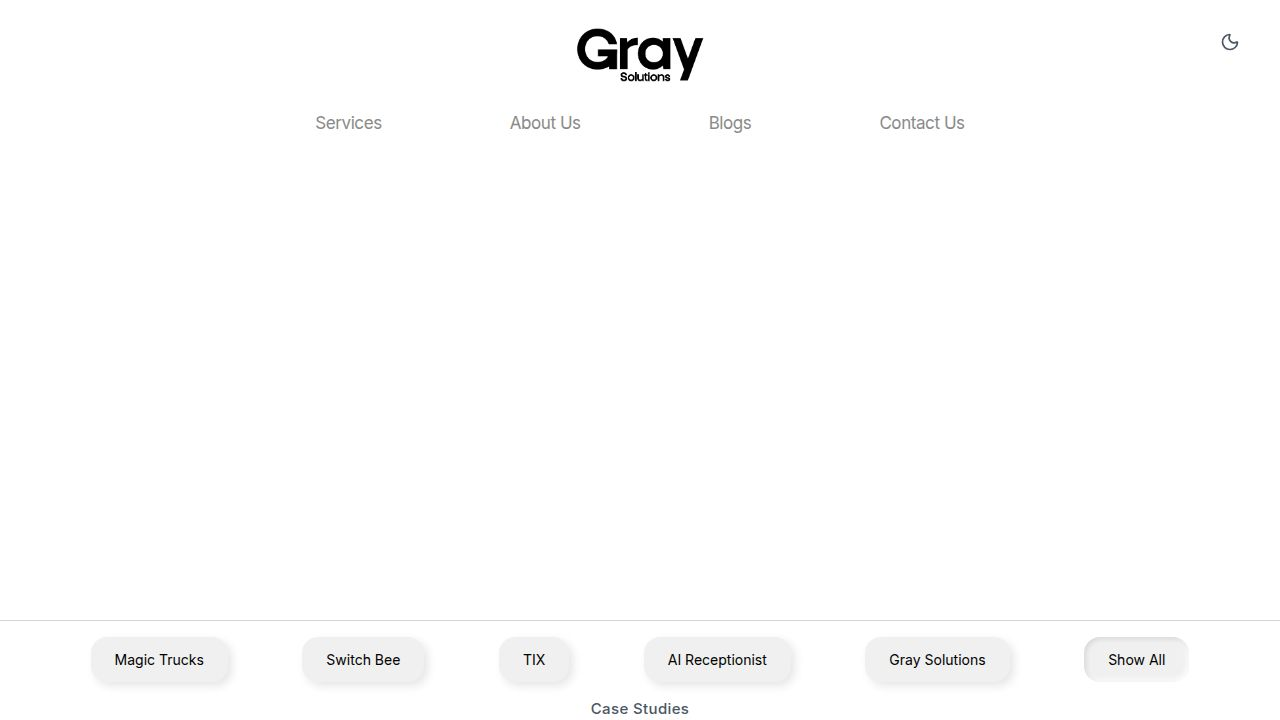
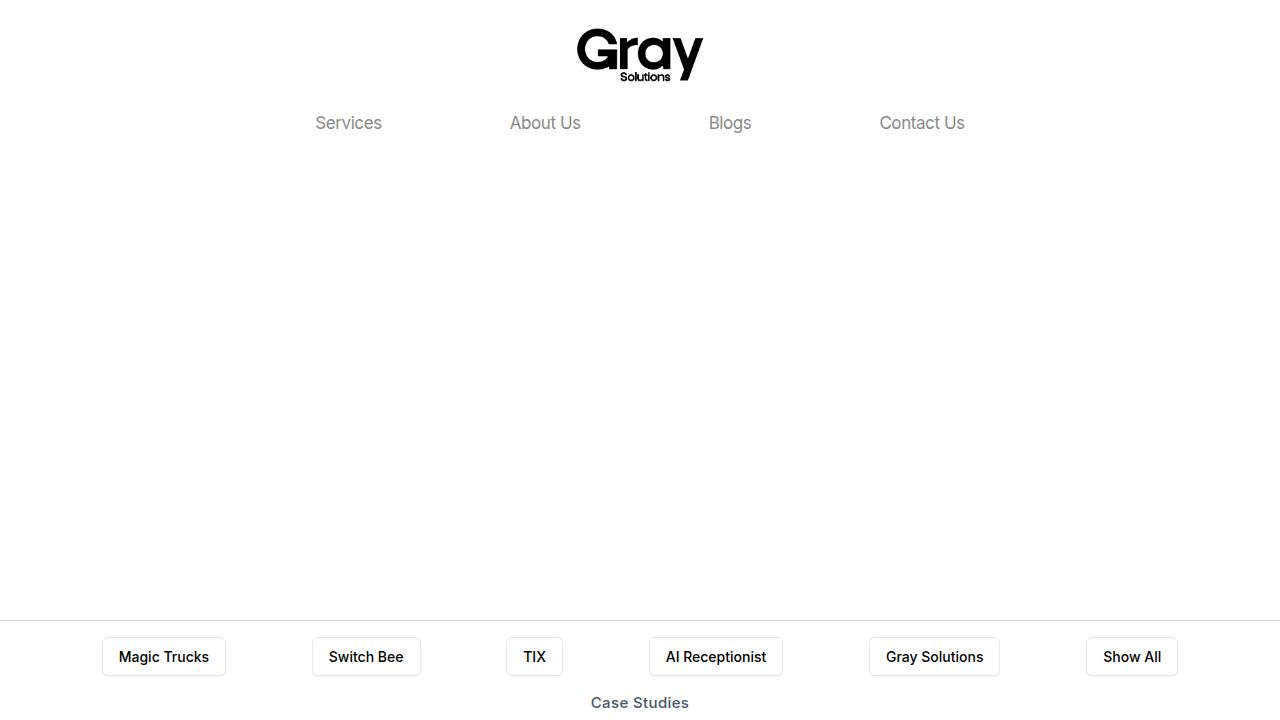
Add new services page with detailed sections and navigation
Create a new page at `/services` with header, intro, brief, roadmap, capabilities, and testimonials sections, updating the main router to include this new route.

Replit-Commit-Author: Agent
Replit-Commit-Session-Id: e4d137b4-b5bb-4d6d-9c60-4b28d3e74818
Replit-Commit-Checkpoint-Type: full_checkpoint
Replit-Commit-Event-Id: 69ccce55-bb29-4d4e-b5b5-b4ff505ae3aa
Replit-Commit-Screenshot-Url: https://storage.googleapis.com/screenshot-production-us-central1/b7c0589e-bc8f-486d-88cc-c194b68995c9/e4d137b4-b5bb-4d6d-9c60-4b28d3e74818/4cEMdiU

diff --git a/client/src/pages/services.tsx b/client/src/pages/services.tsx
@@ -1,0 +1,164 @@
+import React from "react";
+import { Link, useLocation } from "wouter";
+import logoImage from "@assets/Group_69_(1)_1764854226570.png";
+
+export default function Services() {
+  const [location] = useLocation();
+
+  const navItems = [
+    { label: "Services", href: "/services" },
+    { label: "About Us", href: "/about" },
+    { label: "Blogs", href: "/blogs" },
+    { label: "Contact Us", href: "/contact" },
+  ];
+
+  const briefItems = [
+    { id: 1, title: "Innovation" },
+    { id: 2, title: "Strategy" },
+    { id: 3, title: "Design" },
+    { id: 4, title: "Development" },
+    { id: 5, title: "Growth" },
+  ];
+
+  const capabilities = [
+    {
+      heading: "Design",
+      items: ["UI/UX Design", "Brand Identity", "Motion Graphics"],
+    },
+    {
+      heading: "Development",
+      items: ["Web Applications", "Mobile Apps", "Cloud Solutions"],
+    },
+    {
+      heading: "Strategy",
+      items: ["Digital Strategy", "Product Roadmap", "Market Research"],
+    },
+  ];
+
+  const testimonials = [
+    {
+      id: 1,
+      position: "left",
+    },
+    {
+      id: 2,
+      position: "right",
+    },
+    {
+      id: 3,
+      position: "left",
+    },
+  ];
+
+  return (
+    <div className="min-h-screen w-full bg-white font-sans text-brand-text-dark">
+      {/* Header */}
+      <header className="h-[160px] flex-none flex flex-col bg-white relative z-10">
+        <div className="flex-1 flex flex-col justify-center items-center pt-6 pb-6">
+          <div className="mb-5">
+            <Link href="/">
+              <img 
+                src={logoImage} 
+                alt="Gray Solutions Logo" 
+                className="h-16 w-auto cursor-pointer" 
+                data-testid="logo-header"
+              />
+            </Link>
+          </div>
+          
+          <nav className="w-full mx-auto">
+            <ul className="flex justify-center items-center w-full gap-32">
+              {navItems.map((item) => {
+                const isActive = location === item.href;
+                return (
+                  <li key={item.label} className="flex items-center">
+                    <Link href={item.href}>
+                      <span 
+                        className={`
+                          text-[17px] tracking-tight transition-colors duration-200 cursor-pointer inline-flex items-center h-8
+                          ${isActive 
+                            ? "text-black font-medium" 
+                            : "text-[#8A8A8A] font-normal hover:text-[#333333]"
+                          }
+                          focus:outline-none focus:ring-1 focus:ring-black/50 focus:rounded-sm
+                        `}
+                        data-testid={`nav-${item.label.toLowerCase().replace(' ', '-')}`}
+                      >
+                        {item.label}
+                      </span>
+                    </Link>
+                  </li>
+                );
+              })}
+            </ul>
+          </nav>
+        </div>
+      </header>
+
+      {/* Main Content */}
+      <main className="px-8 md:px-16 lg:px-24 pb-20">
+        {/* Intro Section */}
+        <section className="mb-16">
+          <h2 className="text-4xl font-semibold mb-6" data-testid="section-intro">Intro</h2>
+          <div className="w-full h-[300px] bg-gray-300 rounded-lg" data-testid="intro-placeholder"></div>
+        </section>
+
+        {/* Quick Brief About Us */}
+        <section className="mb-16">
+          <h2 className="text-2xl font-semibold mb-6" data-testid="section-brief">Quick brief about us</h2>
+          <div className="grid grid-cols-5 gap-4">
+            {briefItems.map((item) => (
+              <div 
+                key={item.id} 
+                className="aspect-square bg-gray-300 rounded-lg flex items-center justify-center"
+                data-testid={`brief-card-${item.id}`}
+              >
+              </div>
+            ))}
+          </div>
+        </section>
+
+        {/* Road Map */}
+        <section className="mb-16">
+          <h2 className="text-2xl font-semibold mb-6" data-testid="section-roadmap">Road Map</h2>
+          <div className="w-full h-[350px] bg-gray-300 rounded-lg" data-testid="roadmap-placeholder"></div>
+        </section>
+
+        {/* Capabilities */}
+        <section className="mb-16">
+          <h2 className="text-4xl font-semibold mb-8" data-testid="section-capabilities">Capabilities</h2>
+          <div className="grid grid-cols-3 gap-12">
+            {capabilities.map((cap, index) => (
+              <div key={index} data-testid={`capability-column-${index}`}>
+                <h3 className="text-lg font-semibold mb-4">{cap.heading}</h3>
+                <ul className="space-y-2">
+                  {cap.items.map((item, idx) => (
+                    <li key={idx} className="text-gray-600 text-sm">{item}</li>
+                  ))}
+                </ul>
+              </div>
+            ))}
+          </div>
+        </section>
+
+        {/* Client Testimonials */}
+        <section>
+          <h2 className="text-4xl font-semibold mb-8" data-testid="section-testimonials">Client Testimonials</h2>
+          <div className="space-y-8">
+            {testimonials.map((testimonial) => (
+              <div 
+                key={testimonial.id}
+                className={`flex ${testimonial.position === 'right' ? 'justify-end' : 'justify-start'}`}
+              >
+                <div 
+                  className="w-[200px] h-[120px] bg-gray-300 rounded-lg"
+                  data-testid={`testimonial-${testimonial.id}`}
+                ></div>
+              </div>
+            ))}
+          </div>
+        </section>
+      </main>
+    </div>
+  );
+}

diff --git a/client/src/App.tsx b/client/src/App.tsx
@@ -5,12 +5,13 @@ import { Toaster } from "@/components/ui/toaster";
 import { TooltipProvider } from "@/components/ui/tooltip";
 import NotFound from "@/pages/not-found";
 import Landing from "@/pages/landing";
+import Services from "@/pages/services";
 
 function Router() {
   return (
     <Switch>
       <Route path="/" component={Landing} />
-      <Route path="/services" component={Landing} />
+      <Route path="/services" component={Services} />
       <Route path="/about" component={Landing} />
       <Route path="/blogs" component={Landing} />
       <Route path="/contact" component={Landing} />